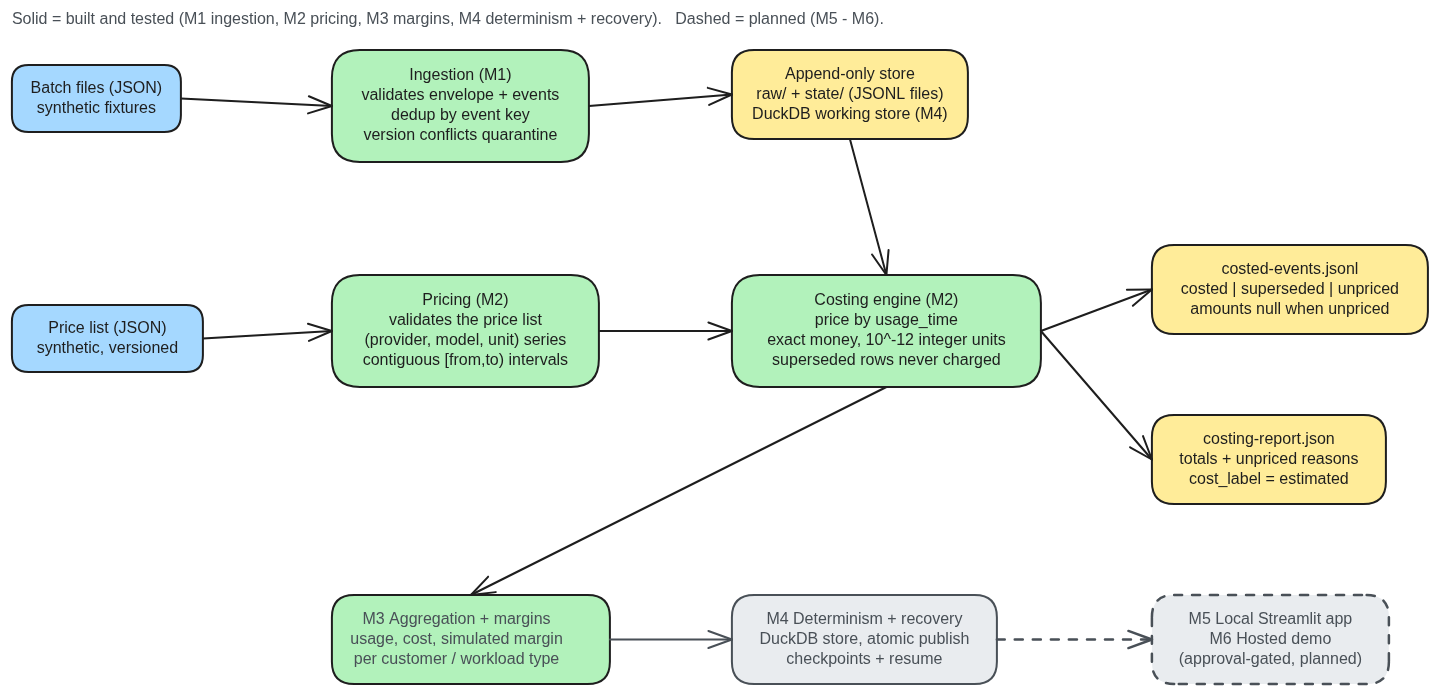
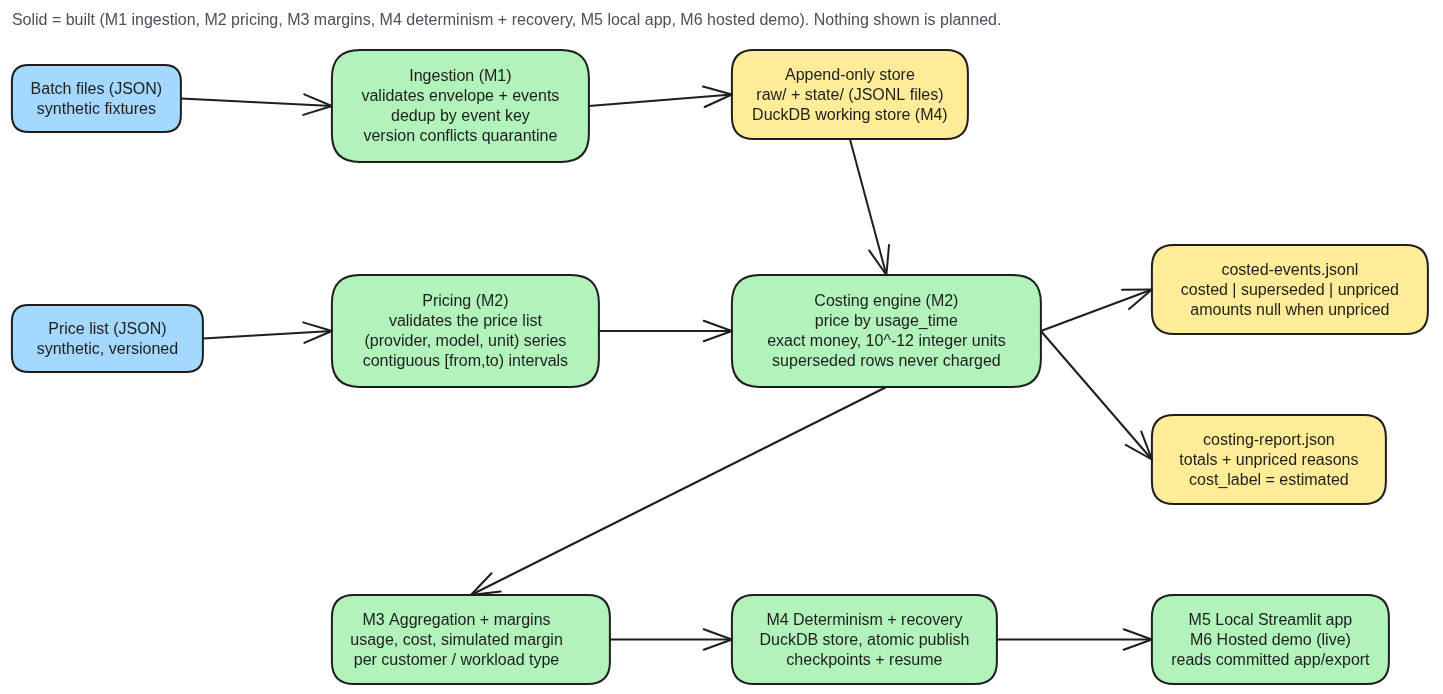
Docs: README, diagrams and screenshots for CI and hosted demo

diff --git a/README.md b/README.md
@@ -4,186 +4,128 @@ A local, deterministic data pipeline working toward one question per customer:
 *what did this usage cost to serve, what did the customer pay, and is the price
 sustainable?*
 
-Today it builds the answer through M5: raw AI usage events are validated,
-deduplicated and costed against a versioned synthetic price list, then
-aggregated into per-customer and per-workload-type simulated revenue and margin
-tables, and a local Streamlit app shows a sanitized export of those tables.
-Every stage is auditable and money-exact. Everything runs on synthetic
-fixtures; no real customer data has ever been ingested.
+Raw AI usage events are validated, deduplicated and costed against a versioned
+synthetic price list, then aggregated into per-customer and per-workload-type
+simulated revenue and margin tables. A Streamlit app shows a sanitized export of
+those tables. Every stage is auditable and money-exact. Everything runs on
+synthetic fixtures; no real customer data has ever been ingested.
 
 **Status:** milestones M1 (ingestion), M2 (pricing and costing), M3
 (aggregation and simulated margins), M4 (determinism and recovery) and M5
-(the local app) are built and tested. The hosted demo (M6) is planned and
-approval-gated.
+(the local app) are built and tested. M6 is built: the hosted demo is live at
+https://ai-cost-margin-pipeline.streamlit.app/ (Streamlit Community Cloud, free
+tier). Optional extensions (M7, M8) are not built.
 
 The target is a **production-oriented demo**, not a production-validated
 system: there is no multi-user access control, no security review, no SLA and
 no real multi-tenant deployment. Any later reliability or reproducibility
 claim will be tied to a proof run that demonstrates it.
 
-## Why this exists
+## Demo
 
-An AI product that cannot say which users, features and models drive its cost
-cannot price itself. This pipeline builds the trustworthy cost side of that
-equation first: every event is validated, deduplicated and costed against a
-versioned price list, with explicit outcomes instead of silent drops. Revenue
-and margin layers sit on top of that foundation (M3), labelled so it is always
-clear where a number came from.
+Live demo: https://ai-cost-margin-pipeline.streamlit.app/ (synthetic data only;
+reporting period 2026-10). The screenshots below are from the hosted app.
 
-## Milestones
+![Customers page: estimated cost, simulated revenue and margin per customer](docs/screenshots/customers.png)
 
-| Milestone | Scope                                                                | State                    |
-| --------- | -------------------------------------------------------------------- | ------------------------ |
-| M1        | Ingestion foundation: validation, dedup, quarantine, append-only store | Built and tested       |
-| M2        | Pricing: exact money, price series and intervals, costing engine     | Built and tested         |
-| M3        | Aggregation and margins per customer and workload type (simulated)   | Built and tested         |
-| M4        | Determinism and recovery: DuckDB store, atomic publish, checkpoints  | Built and tested         |
-| M5        | Local Streamlit app                                                  | Built and tested         |
-| M6        | Hosted demo deployment                                               | Planned, approval-gated  |
-| M7, M8    | Optional extensions                                                  | Optional                 |
+*Customers: cost, revenue and margin per customer, with incomplete margins marked.*
 
-## Architecture
+![What-if scenarios page with Volume scale set to 160 percent](docs/screenshots/what-if-scenarios.png)
+
+*What-if scenarios, with Volume scale set to 160%: costs are recomputed in memory; revenue stays fixed.*
+
+![Workload breakdown page: cost by workload type and customer, plus the unallocated bucket](docs/screenshots/workload-breakdown.png)
+
+*Workload breakdown: where the cost comes from, including usage that has no customer.*
+
+## Sample output (synthetic data)
+
+One input event from `fixtures/phase1/batch-001-clean.json` (selected fields):
+
+```json
+{"provider_event_id": "evt-001-001", "customer_id": "cust-001", "model": "synth-small", "workload_type": "short_light", "usage_time": "2026-10-01T08:00:00Z", "tokens_input": 4825, "tokens_output": 1403, "tokens_cached": 194}
+```
+
+Its costed result from `fixtures/phase2/expected/costed-events.jsonl` (selected fields):
+
+```json
+{"provider_event_id": "evt-001-001", "cost_status": "costed", "cost_label": "estimated", "price_version_input": "synthetic-prices-v1/synth-small/2026-10-01", "total_cost": "0.006659100000"}
+```
+
+A customer margin row from `app/export/customer-margins.jsonl` (selected fields):
+
+```json
+{"customer_id": "cust-001", "period": "2026-10", "plan_id": "starter", "simulated_revenue": "49.000000000000", "estimated_cost": "0.026507850000", "simulated_margin": "48.973492150000", "margin_status": "complete", "events_costed": 4, "revenue_label": "simulated", "cost_label": "estimated"}
+```
+
+The margin row aggregates every current event for that customer and period
+(`events_costed` shows the count); the single event above does not produce it.
+See [the margin contract](docs/phase-3-margin-contract.md). All values are
+copied from committed files.
+
+## How it works
 
 ![Architecture](docs/diagrams/architecture.png)
 
 Editable source: [docs/diagrams/architecture.excalidraw](docs/diagrams/architecture.excalidraw)
 (open at [excalidraw.com](https://excalidraw.com)).
 
-- **Ingestion (M1).** Each delivered batch is hashed (SHA-256) and copied
-  atomically into `raw/`, then validated at two levels: the batch envelope and
-  every event it carries. Events are deduplicated on their
-  `(provider, account, provider_event_id)` key: an identical payload is a
-  duplicate and is skipped; a changed payload is accepted only with a strictly
-  higher `record_version`, otherwise it is quarantined.
-- **Append-only store.** The Phase 1 ingest CLI lands validated events in
-  `var/state/events.jsonl` alongside a manifest, a dead-letter file, a
-  quarantine file and a per-run ingestion report. The Phase 4 runner
-  (`python -m ai_cost_margin.pipeline`) does the whole run in one command
-  against a private DuckDB working store (`var/pipeline.duckdb`): each stage
-  commits its checkpoint atomically, an interrupted attempt resumes from its
-  last verified checkpoint, and the seven result files publish atomically
-  under the run fingerprint. `var/` is private and gitignored.
-- **Pricing (M2).** The price list is validated before any event is costed:
-  one series per `(provider, model, unit)` - unit is input, output or cached -
-  built from half-open `[from,to)` intervals that must be contiguous and
-  non-overlapping, with an open-ended interval allowed only as the last in a
-  series. Duplicate price version ids or duplicate interval starts are
-  rejected, the list carries a single currency, and its label must be
-  `synthetic`. An invalid schedule is fatal: costing never starts.
-- **Costing engine (M2).** Each event is priced by its `usage_time` against
-  the matching interval of its `(provider, model)` series. Supersession is
-  resolved by `record_version` and by `supersedes` references: superseded
-  records are never charged, and ambiguous lineage stops the run instead of
-  guessing. Costs are computed in exact integer arithmetic.
-- **Outputs.** A fresh output directory per run: `costed-events.jsonl` (each
-  row labelled costed, superseded or unpriced; amounts are null when
-  unpriced) and `costing-report.json` (counts, totals, unpriced reasons,
-  `cost_label: "estimated"`, `price_list_label: "synthetic"`).
-- **Sanitized export (M5).** The export generator (`python -m ai_cost_margin.export`)
-  turns one verified published run into eight committed files under
-  `app/export/`: the margin tables, sanitized scenario events and lineage with
-  surrogate `evt-NNNN` keys (no raw provider event IDs, account IDs, request IDs,
-  provider attempt IDs or payload hashes), the synthetic price list, the
-  simulated plans, and an export manifest. Before it writes anything it binds
-  the published run files to the store's stage rows through six consistency
-  checks, and it records two distinct digests: the attested source financial
-  digest and an integrity digest over the export bytes.
-- **Local app (M5).** The Streamlit app (`app/streamlit_app.py`) reads the
-  committed export read-only and verifies it on load. It has four sections:
-  customers, workload breakdown, what-if scenarios and provenance. What-if
-  scenarios are recomputed in memory through the same pricing, costing,
-  allocation and aggregation code as the pipeline. Scenario choices live only in
-  the browser session, and the app code does not write scenario results to disk.
-
-## Workflow
+- **Ingest (M1).** Batches are hashed, copied into `raw/`, validated and
+  deduplicated by event key and `record_version`. Failures go to a dead-letter
+  or quarantine file, never silently dropped.
+  See [the ingestion contract](docs/phase-1-ingestion-contract.md).
+- **Price and cost (M2).** The price list is validated first, then each event is
+  priced by `usage_time` in exact integer arithmetic; events that cannot be
+  priced are marked unpriced with a reason.
+  See [the pricing contract](docs/phase-2-pricing-contract.md).
+- **Aggregate (M3).** Costed rows are summed per customer-month and per workload
+  type; simulated flat plan revenue is allocated by token volume, and usage with
+  no customer stays in an unallocated bucket.
+  See [the margin contract](docs/phase-3-margin-contract.md).
+- **Run and recover (M4).** One command (`python -m ai_cost_margin.pipeline`)
+  runs every stage against a private DuckDB store with atomic checkpoints. An
+  interrupted run resumes and reaches byte-identical results.
+  See [the determinism contract](docs/phase-4-determinism-contract.md).
+- **Export and app (M5, M6).** `python -m ai_cost_margin.export` turns one
+  verified run into eight sanitized files under `app/export/`. The Streamlit app
+  reads them read-only and verifies them on load. It has four pages: customers,
+  workload breakdown, what-if scenarios (recomputed in memory with the pipeline's
+  own pricing and aggregation code) and provenance. The hosted demo serves the
+  same committed export.
 
 ![Workflow](docs/diagrams/workflow.png)
 
 Editable source: [docs/diagrams/workflow.excalidraw](docs/diagrams/workflow.excalidraw).
-
-Note: both diagrams were last updated at M4 and do not show the M5 app. The
-numbered steps below are current.
-
-1. A batch arrives as one JSON file: an envelope plus its events.
-2. The batch content is hashed (SHA-256) and copied atomically into `raw/`.
-3. The envelope is validated; failures go to `dead-letter.jsonl`.
-4. Each event is validated; failures go to `dead-letter.jsonl` with the event
-   index and reason.
-5. Events are deduplicated and version-checked on their event key: an
-   identical payload is a duplicate; a changed payload with a strictly higher
-   `record_version` is inserted; the same or a lower version is quarantined.
-6. The price list is validated: contiguous, non-overlapping `[from,to)`
-   series per `(provider, model, unit)`. An invalid schedule stops the run
-   before any event is read.
-7. Supersession is resolved: records replaced by a higher `record_version` or
-   named in another record's `supersedes` are marked superseded and never
-   charged; ambiguous lineage stops the run.
-8. Each remaining event is priced by its `usage_time`, with separate rates
-   for input, output and cached tokens.
-9. Cost is computed exactly as integer 10^-12 currency units, serialized with
-   twelve decimal places, never floats. An event with no applicable rate (or
-   unusable token counts) is unpriced with a named reason.
-10. Outputs are written to a fresh directory: `costed-events.jsonl` and
-    `costing-report.json`.
-11. (M3) An as-of cutoff selects stored records by `arrival_time`; the two
-    supersession rules produce directed lineage edges. Costed rows aggregate to
-    one row per customer-month and one per customer-month-workload-type.
-    Simulated flat monthly plan revenue is allocated by billable token volume,
-    with unpriced usage marking the month incomplete and unattributable usage
-    kept in an unallocated bucket. A digest covers the financial tables only.
-12. (M4) One command runs the whole pipeline: raw, validated, costed,
-    aggregated, publish. Each stage writes its rows and checkpoint in one
-    transaction, so a killed process leaves no partial committed stage: raw copies stay inert until their stage commits. The next
-    identical invocation adopts the interrupted attempt's verified prefix and
-    recomputes the rest; the seven files and the digest are identical either
-    way. Publishing is an atomic rename after every file exists; an exact
-    byte-for-byte rerun is reported as a replay, never rewritten. The
-    single-writer guarantee is cross-process.
-13. (M5) The verified published run is exported to the sanitized dataset under
-    `app/export/`, and a local Streamlit app serves it read-only: customers,
-    workload breakdown, what-if scenarios recomputed through the same engine,
-    and a provenance panel showing the source digest, the recomputed digest and
-    whether they match. The hosted demo (M6) is still planned and
-    approval-gated.
-
-Every outcome is explicit: duplicate, dead-lettered, quarantined, superseded,
-unpriced - nothing is silently dropped.
+Every outcome is explicit (duplicate, dead-lettered, quarantined, superseded,
+unpriced). The step-by-step rules are in the phase contracts linked under
+[Documentation](#documentation).
 
 ## Money and labelling rules
 
-- Money is exact: amounts are integer counts of 10^-12 currency units,
-  serialized as strings with exactly twelve decimal places. Floats are
-  rejected by construction.
-- Rates are six-decimal strings (for example `"0.750000"` per 1,000,000
-  tokens) converted to integer micro numerators, so no decimal rounding
-  context is ever involved in a price.
-- Cached tokens are treated as a subset of input tokens billed at the cached
-  rate - a synthetic assumption (S1), not a claim about any real provider.
-  A cached count above the input count makes the event unpriced.
-- Labels in outputs today: costed rows and reports carry
-  `cost_label: "estimated"`; the price list and its selection carry
-  `label: "synthetic"` / `price_list_label: "synthetic"`. Costs are estimates
-  from a synthetic price list, never billed amounts. Planned revenue and
-  margin layers follow the same discipline: simulated revenue will be
-  labelled simulated.
-- Usage data is synthetic by default. This repository contains no real
-  customer data, no real prompts and no real revenue.
-- `var/` - the raw event store, run history, manifests and working files -
-  stays private and gitignored. Only reviewed, sanitized exports are
-  committed.
-- No secrets in the repo: no `.env` file, no API keys, no private account
-  identifiers. Provider and model names in the fixtures are openly synthetic
-  (`synthetic-token-provider`, `synth-small`, `synth-large`).
+- Money is exact: integer counts of 10^-12 currency units, serialized as strings
+  with twelve decimal places. Floats are rejected by construction.
+- Cached tokens are a subset of input tokens billed at the cached rate - a
+  synthetic assumption, not a claim about any real provider.
+- Costs are labelled `estimated` and come from a `synthetic` price list, never
+  billed amounts. Revenue and margin are labelled `simulated`; usage is
+  `synthetic`.
+- The repository contains no real customer data, prompts, revenue or secrets.
+  `var/` (raw store, run history, working files) is private and gitignored; only
+  reviewed, sanitized exports are committed.
 
 ## Determinism and testing
 
-332 tests collected under pytest (331 passed, 1 skipped - the explicit golden-generation check). The Phase 5 tests cover the scenario engine against hand-calculated values, the app pages through Streamlit AppTest (including isolation between two simulated sessions and the app's refusal of a tampered export), and a direct test that the export loader refuses a tampered copy. Phase 4 adds a three-point kill drill (`tools/kill_drill.py`): runs killed before the raw commit, before the costed commit and after the publish rename each resume to byte-identical results, and the published pointer never names a staged attempt. Ingestion reads no wall clock: `arrival_time` comes
-from the batch envelope and the ingest id is content-addressed. Golden
-fixtures pin the behavior the suite covers: the Phase 1 fixture generator
-reproduces the committed batches byte for byte, and the golden ingestion,
-golden costing and golden margin checks reproduce their frozen expected outputs
-byte for byte. Phase 3 goldens carry a fixed fixture code-version label rather
-than a future commit hash.
+On the author's Windows machine, 332 tests are collected under pytest (331
+passed, 1 skipped - the explicit golden-generation check). They cover the
+scenario engine against hand-calculated values, the app pages through Streamlit
+AppTest, and the refusal of a tampered export. A three-point kill drill
+(`tools/kill_drill.py`) kills runs at three stages; each resumes to
+byte-identical results. Golden fixtures pin the ingestion, costing and margin
+outputs byte for byte.
+
+CI: one GitHub Actions workflow (`.github/workflows/ci.yml`) runs the test suite
+on Windows with Python 3.13; its first run, on commit 2a22410, completed
+successfully. Other platforms are not covered by CI.
 
 ## Honest limitations
 
@@ -194,23 +136,17 @@ than a future commit hash.
   runner invocation per OS process. The Phase 1-3 JSONL store is unchanged; a
   torn line there is still a hard stop.
 - M3 revenue comes from synthetic flat monthly plans, not real contracts; it
-  has no proration, discounts, taxes or credits. No hosted
-  deployment (M6) yet.
-- No CI, and no license file yet.
+  has no proration, discounts, taxes or credits.
+- The hosted demo runs on the Streamlit Community Cloud free tier over the same
+  committed export. It is a read-only public demo, not a production service,
+  and its availability is whatever the free tier provides.
+- No license file yet.
 
 ## Stack
 
-Python 3.13, DuckDB, Streamlit, plain JSON inputs.
+Python 3.13, DuckDB 2.0.0, Streamlit 1.67.0, pytest 9.2.0 (the three direct
+dependencies are pinned in `requirements.txt`; pip resolves the rest).
 Development happens on Windows; the commands below are PowerShell.
-
-| Direct dependency | Pin      | Why it is pinned                                                      |
-| ----------------- | -------- | --------------------------------------------------------------------- |
-| `streamlit`       | 1.67.0   | Hosting can auto-upgrade unpinned apps; the pin keeps the demo reproducible |
-| `duckdb`          | 2.0.0    | Single-writer analytical store for the local pipeline                 |
-| `pytest`          | 9.2.0    | Test runner                                                           |
-
-`requirements.txt` pins the three direct dependencies only; pip resolves
-their transitive dependencies at install time.
 
 ## Running it
 
@@ -222,14 +158,10 @@ py -3.13 -m venv .venv
 .venv\Scripts\python.exe -m pytest
 ```
 
-Notes:
-
-- Call `.venv\Scripts\python.exe` directly instead of running `Activate.ps1`,
-  so the PowerShell Execution Policy cannot get in the way.
-- Do not run `pip install --upgrade pip`: the bundled pip is enough, and
-  upgrading would install an unpinned package.
-- `--only-binary :all:` fails fast when a wheel is missing instead of
-  building from source.
+Notes: call `.venv\Scripts\python.exe` directly so the PowerShell Execution
+Policy cannot get in the way; do not run `pip install --upgrade pip` (it would
+install an unpinned package); `--only-binary :all:` fails fast when a wheel is
+missing instead of building from source.
 
 The package uses a `src/` layout, so module commands need `src` on
 `PYTHONPATH` (`pytest.ini` sets that for pytest only). A full demo run, using
@@ -264,23 +196,22 @@ pipeline run is needed first. From the repo root, after the install step above:
 ```
 
 Open the local URL that Streamlit prints. The app adds `src` to its own import
-path, so `PYTHONPATH` is not needed for it.
+path, so `PYTHONPATH` is not needed for it. The hosted demo serves the same
+export: https://ai-cost-margin-pipeline.streamlit.app/
 
 ## Repository layout
 
 ```text
-ai-cost-margin-pipeline/
-  docs/                 brief, roadmap, phase contracts, diagrams
-  fixtures/phase1/      synthetic ingestion batches and frozen expected outputs
-  fixtures/phase2/      synthetic price list, invalid cases, expected outputs
-  fixtures/phase3/      simulated plans, late/correction batches, golden margins
-  app/                  Streamlit app, scenario engine and verified export loader
-  app/export/           committed sanitized export the app serves (8 files)
-  src/ai_cost_margin/   shared pipeline package
-  tests/                pytest suite
-  tools/                independent hand-calculation checks and the kill drill
-  var/                  private working state, gitignored
-  build.md              append-only record of progress and evidence
+.github/              GitHub Actions workflow (CI)
+docs/                 brief, roadmap, phase contracts, diagrams, screenshots
+fixtures/             synthetic batches, price list, plans and frozen outputs
+app/                  Streamlit app, scenario engine, verified export loader
+app/export/           committed sanitized export the app serves (8 files)
+src/ai_cost_margin/   shared pipeline package
+tests/                pytest suite
+tools/                hand-calculation checks and the kill drill
+var/                  private working state, gitignored
+build.md              append-only record of progress and evidence
 ```
 
 ## Documentation

diff --git a/build.md b/build.md
@@ -148,3 +148,18 @@ Rules:
 - State after this entry: pushed - awaiting review (this refers to the four published Phase 5 commits C1 to C4; this entry and the matching README update are not yet committed, and the commit that carries them is recorded in the next entry's Log commit field)
 - Blockers: none
 - Next step: CI verification, then Phase 6 planning (M6: hosted deployment, audience decision and hosting terms first) in Plan mode. The license choice and screenshot publishing are optional separate user decisions and do not block either.
+
+### Entry 7 - 2026-11-08 (CI, hosted demo and documentation catch-up)
+
+- Phase: 5 follow-through - CI, the hosted demo (M6) and the README, diagram and screenshot update
+- Tool/model: OpenCode (model not recorded)
+- Verified base (last commit verified by review): 2a224106bf1fad0a0db1165d6f2fac6f32fa86d9 (public main, parent 667875b8df6764df0b063ed2cc210a30888f3548; the commit, its parent and the workflow blob 0e0bb81b7062cdc5cf444668cf503d7117e76042 were independently checked through the public GitHub API after the push; this is an identity and bytes check, not a full closeout review)
+- HEAD at work start (may include unverified commits; a dirty mid-phase HEAD is not a verified base): 2a224106bf1fad0a0db1165d6f2fac6f32fa86d9
+- What changed: the CI commit added .github/workflows/ci.yml, one Windows job on Python 3.13 that installs the pinned requirements and runs pytest (2a22410). Its first public run (https://github.com/arvindram27/ai-cost-margin-pipeline/actions/runs/42485113617, event push) completed with conclusion success and the job step "Run the test suite" succeeded; the pytest counts were not read because the job logs need repository admin rights. The hosted demo was deployed at https://ai-cost-margin-pipeline.streamlit.app/ on Streamlit Community Cloud (free tier, Python 3.13, built from main at 2a22410). Live checks saw all four pages render with data in the owner's session, the Volume scale slider at 160% recompute cust-001 cost from 0.02650785 to 0.04241205, and a fresh anonymous browser render the Customers page without a login. The documentation update in the commit that carries this entry replaces the stale "No CI" and "No hosted deployment" statements, marks M6 built, adds a Demo section with three screenshots of the hosted app and a sample-output section copied from committed files, condenses the Architecture, Workflow and money-rule text (the step-by-step rules stay in the phase contracts, which the README now links), and updates both diagrams and their PNG renders to show M5 and M6 as built.
+- Tests run (command -> short result summary, author-reported until review): no tests were rerun for the documentation update and no code, test, workflow or requirements file changed. The CI run above is the only new test evidence: a Windows job that succeeded, counts not read. The local counts in Entry 6 remain author-reported.
+- Provenance/data notes (which fixtures or inputs were touched): synthetic fixtures only. The README sample values are copied from fixtures/phase1/batch-001-clean.json, fixtures/phase2/expected/costed-events.jsonl and app/export/customer-margins.jsonl. The three screenshots in docs/screenshots/ come from the hosted app, cropped to app content, with no account, email, username or local path visible.
+- Commits produced (hashes pasted from `git log`): 2a224106bf1fad0a0db1165d6f2fac6f32fa86d9 (CI: add Windows pytest workflow). The commit carrying the documentation update and this entry is recorded in the next entry's Log commit field.
+- Log commit (hash of the commit that added the PREVIOUS entry): 667875b8df6764df0b063ed2cc210a30888f3548 (the commit carrying Entry 6)
+- State after this entry: pushed - awaiting review (this refers to the CI commit 2a22410; the documentation update and this entry are not yet pushed as of this entry)
+- Blockers: none
+- Next step: the license choice remains a separate optional user decision. A Linux CI job is optional and not planned in this pass; the lock-wording test noted in Entry 6 would need a proper fix first.
